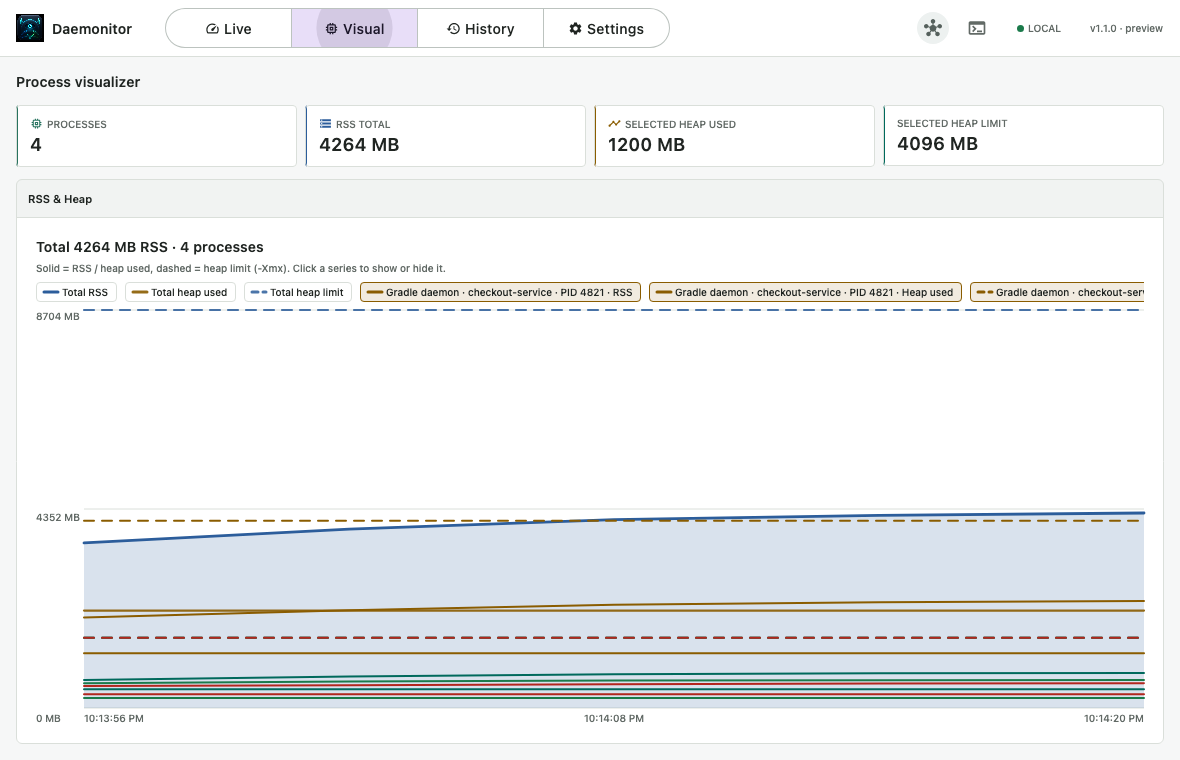
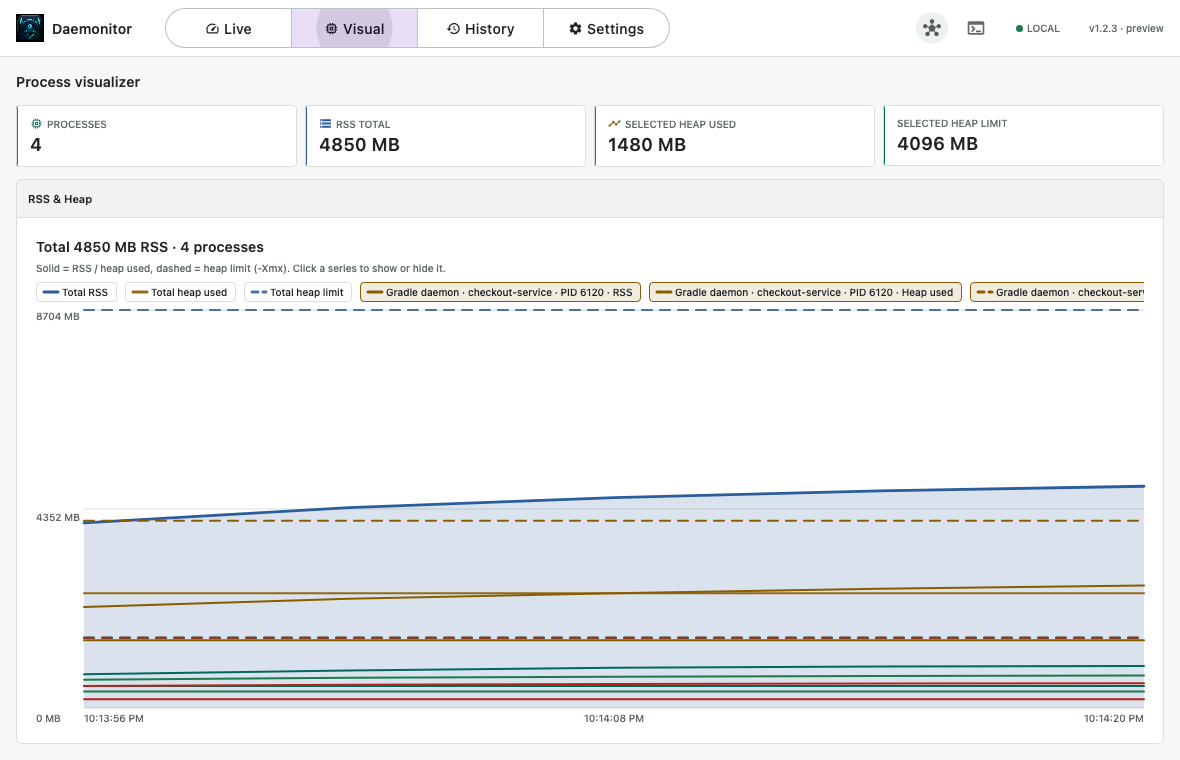
docs: refresh 1.2.3 screenshots for native TUI telemetry
Update README/site images and sample capture data so release notes can show process-details OS activity, JVM pools, and native memory.

diff --git a/src/test/kotlin/io/github/cdsap/daemonitor/docs/ReadmeScreenshotCapture.kt b/src/test/kotlin/io/github/cdsap/daemonitor/docs/ReadmeScreenshotCapture.kt
@@ -46,7 +46,7 @@ import kotlin.test.Test
 @Tag("documentation")
 class ReadmeScreenshotCapture {
     private val outputDirectory = Path.of("docs", "images")
-    private val buildInfo = BuildInfo(version = "1.1.0", commit = "preview")
+    private val buildInfo = BuildInfo(version = "1.2.3", commit = "preview")
 
     @Test
     fun captureLive() = capture("live-monitor.png") {
@@ -126,20 +126,20 @@ internal object SampleUi {
     fun liveState(): LiveUiState {
         val now = System.currentTimeMillis()
         val daemon = process(
-            pid = 4821,
+            pid = 6120,
             type = ProcessType.GRADLE_DAEMON,
             project = "checkout-service",
-            rss = 2340,
-            heapUsedMb = 1200,
-            cpu = 38.0,
+            rss = 2680,
+            heapUsedMb = 1480,
+            cpu = 52.0,
             startedAt = now - 18 * 60 * 1_000,
             command = "java -Xmx4096m org.gradle.launcher.daemon.bootstrap.GradleDaemon 9.0",
         )
         val processes = listOf(
             daemon,
-            process(4914, ProcessType.GRADLE_WRAPPER, "checkout-service", 612, 220, 14.0, now - 4 * 60 * 1_000, "java org.gradle.wrapper.GradleWrapperMain test", automated = true),
-            process(4930, ProcessType.GRADLE_WORKER, "checkout-service", 768, 410, 71.0, now - 75 * 1_000, "java -Xmx1024m GradleWorkerMain 'Test Executor 2'"),
-            process(5077, ProcessType.KOTLIN_DAEMON, "design-system", 544, 300, 9.0, now - 11 * 60 * 1_000, "java -Xmx1536m org.jetbrains.kotlin.daemon.KotlinCompileDaemon"),
+            process(6204, ProcessType.GRADLE_WRAPPER, "checkout-service", 540, 190, 11.0, now - 4 * 60 * 1_000, "java org.gradle.wrapper.GradleWrapperMain test", automated = true),
+            process(6218, ProcessType.GRADLE_WORKER, "checkout-service", 920, 480, 64.0, now - 75 * 1_000, "java -Xmx1024m GradleWorkerMain 'Test Executor 2'"),
+            process(6301, ProcessType.KOTLIN_DAEMON, "design-system", 710, 360, 18.0, now - 11 * 60 * 1_000, "java -Xmx1536m org.jetbrains.kotlin.daemon.KotlinCompileDaemon"),
         )
         val endMs = 1_700_000_060_000L
         fun sample(offsetMs: Long, rssByPid: Map<Long, Long>) = RssTimelineSample(
@@ -168,10 +168,10 @@ internal object SampleUi {
             isLoading = false,
             isEmpty = false,
             rssTimeline = listOf(
-                sample(-24_000, mapOf(4821L to 1980L, 4914L to 540L, 4930L to 610L, 5077L to 480L)),
-                sample(-18_000, mapOf(4821L to 2140L, 4914L to 580L, 4930L to 690L, 5077L to 500L)),
-                sample(-12_000, mapOf(4821L to 2260L, 4914L to 600L, 4930L to 740L, 5077L to 520L)),
-                sample(-6_000, mapOf(4821L to 2310L, 4914L to 608L, 4930L to 760L, 5077L to 536L)),
+                sample(-24_000, mapOf(6120L to 2210L, 6204L to 480L, 6218L to 740L, 6301L to 620L)),
+                sample(-18_000, mapOf(6120L to 2390L, 6204L to 510L, 6218L to 820L, 6301L to 660L)),
+                sample(-12_000, mapOf(6120L to 2510L, 6204L to 525L, 6218L to 880L, 6301L to 685L)),
+                sample(-6_000, mapOf(6120L to 2610L, 6204L to 535L, 6218L to 905L, 6301L to 700L)),
                 sample(0, processes.associate { it.pid to it.rssMemoryMb }),
             ),
         )
@@ -179,10 +179,10 @@ internal object SampleUi {
 
     fun historyState(): HistoryUiState {
         val builds = listOf(
-            build("build-1042", "checkout-service", 1_782_904_930_000, 74.2, 2380, 86.0, FinalStatus.SUCCESS, Source.IDE, "Codex", "OpenAI", "> Task :checkout:test\n42 tests completed, 0 failed\nBUILD SUCCESSFUL"),
-            build("build-1041", "design-system", 1_782_904_280_000, 31.8, 1210, 64.0, FinalStatus.FAILED, Source.TERMINAL, null, null, "> Task :tokens:generate\nTokenValidationTest FAILED\nBUILD FAILED"),
-            build("build-1040", "mobile-app", 1_782_903_510_000, 128.5, 3150, 92.0, FinalStatus.INTERRUPTED, Source.IDE, "Claude Code", "Anthropic", null),
-            build("build-1039", "checkout-service", 1_782_902_820_000, 18.4, 980, 43.0, FinalStatus.COMPLETED_NO_OUTCOME, Source.TERMINAL, "Cursor", "Anysphere", null),
+            build("build-1108", "checkout-service", 1_782_904_930_000, 74.2, 2380, 86.0, FinalStatus.SUCCESS, Source.IDE, "Codex", "OpenAI", "> Task :checkout:test\n42 tests completed, 0 failed\nBUILD SUCCESSFUL"),
+            build("build-1107", "design-system", 1_782_904_280_000, 31.8, 1210, 64.0, FinalStatus.FAILED, Source.TERMINAL, null, null, "> Task :tokens:generate\nTokenValidationTest FAILED\nBUILD FAILED"),
+            build("build-1106", "mobile-app", 1_782_903_510_000, 128.5, 3150, 92.0, FinalStatus.INTERRUPTED, Source.IDE, "Claude Code", "Anthropic", null),
+            build("build-1105", "checkout-service", 1_782_902_820_000, 18.4, 980, 43.0, FinalStatus.COMPLETED_NO_OUTCOME, Source.TERMINAL, "Cursor", "Anysphere", null),
         )
         return HistoryUiState(
             builds = builds,
@@ -239,7 +239,7 @@ internal object SampleUi {
         log: String?,
     ) = Build(
         buildId = id,
-        daemonPid = 4821,
+        daemonPid = 6120,
         daemonIdentity = "sample-daemon",
         commandLine = "./gradlew test",
         workingDirectory = "$SAFE_ROOT/$project",

diff --git a/src/test/kotlin/io/github/cdsap/daemonitor/docs/ReadmeScreenshotsTest.kt b/src/test/kotlin/io/github/cdsap/daemonitor/docs/ReadmeScreenshotsTest.kt
@@ -34,7 +34,7 @@ class ReadmeScreenshotsTest {
         val tuiImage: BufferedImage = assertNotNull(ImageIO.read(tui.toFile()), "TUI screenshot should be readable")
         assertEquals(860, tuiImage.width)
         assertEquals(466, tuiImage.height)
-        assertTrue(readme.contains("![Daemonitor CLI showing a live terminal table of Gradle-related processes with RSS, heap, CPU, and uptime](docs/images/cli-monitor.png)"))
+        assertTrue(readme.contains("![Daemonitor CLI process details showing OS activity, JVM memory pools, and native memory metrics](docs/images/cli-monitor.png)"))
     }
 
     @Test
@@ -53,11 +53,11 @@ class ReadmeScreenshotsTest {
         val state = SampleUi.liveState()
         val sample = state.rssTimeline.last()
 
-        assertEquals(1200L, sample.heapUsedByPid[4821L])
-        assertEquals(4096L, sample.heapLimitByPid[4821L])
-        assertEquals(220L, sample.heapUsedByPid[4914L])
-        assertEquals(410L, sample.heapUsedByPid[4930L])
-        assertEquals(300L, sample.heapUsedByPid[5077L])
+        assertEquals(1480L, sample.heapUsedByPid[6120L])
+        assertEquals(4096L, sample.heapLimitByPid[6120L])
+        assertEquals(190L, sample.heapUsedByPid[6204L])
+        assertEquals(480L, sample.heapUsedByPid[6218L])
+        assertEquals(360L, sample.heapUsedByPid[6301L])
 
         state.processes.forEach { process ->
             val used = sample.heapUsedByPid[process.pid]

diff --git a/site/cli.html b/site/cli.html
@@ -257,7 +257,7 @@ daemonitor-cli ps --watch --poll-interval 5s --until 1m</code></pre>
             src="assets/cli-monitor.png"
             width="860"
             height="466"
-            alt="Daemonitor CLI terminal showing live Gradle-related processes with RSS, heap, CPU, and uptime"
+            alt="Daemonitor CLI process details showing OS activity, JVM memory pools, and native memory metrics"
           >
         </figure>
 

diff --git a/site/index.html b/site/index.html
@@ -182,7 +182,7 @@ daemonitor-cli</code></pre>
                 src="assets/cli-monitor.png"
                 width="860"
                 height="466"
-                alt="Daemonitor CLI terminal showing Gradle and Kotlin process rows"
+                alt="Daemonitor CLI process details showing OS activity, JVM memory pools, and native memory metrics"
                 loading="lazy"
               >
             </figure>

diff --git a/README.md b/README.md
@@ -92,7 +92,7 @@ stays `n/a` for wrappers and Gradle workers (daemons only). More detail:
 
 ### CLI (terminal)
 
-![Daemonitor CLI showing a live terminal table of Gradle-related processes with RSS, heap, CPU, and uptime](docs/images/cli-monitor.png)
+![Daemonitor CLI process details showing OS activity, JVM memory pools, and native memory metrics](docs/images/cli-monitor.png)
 
 Native full-screen TUI (`top`-style): selection, sorting, pause, resize, grouped process hierarchy,
 process details, recent build/log context, and a compact RSS trend — useful on
